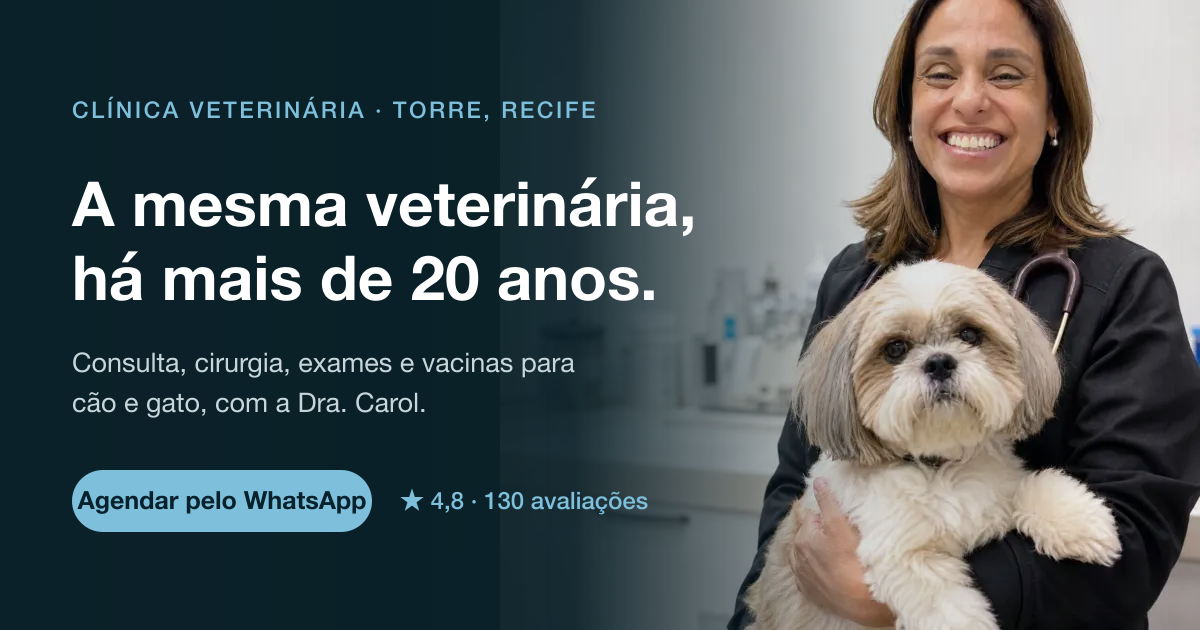
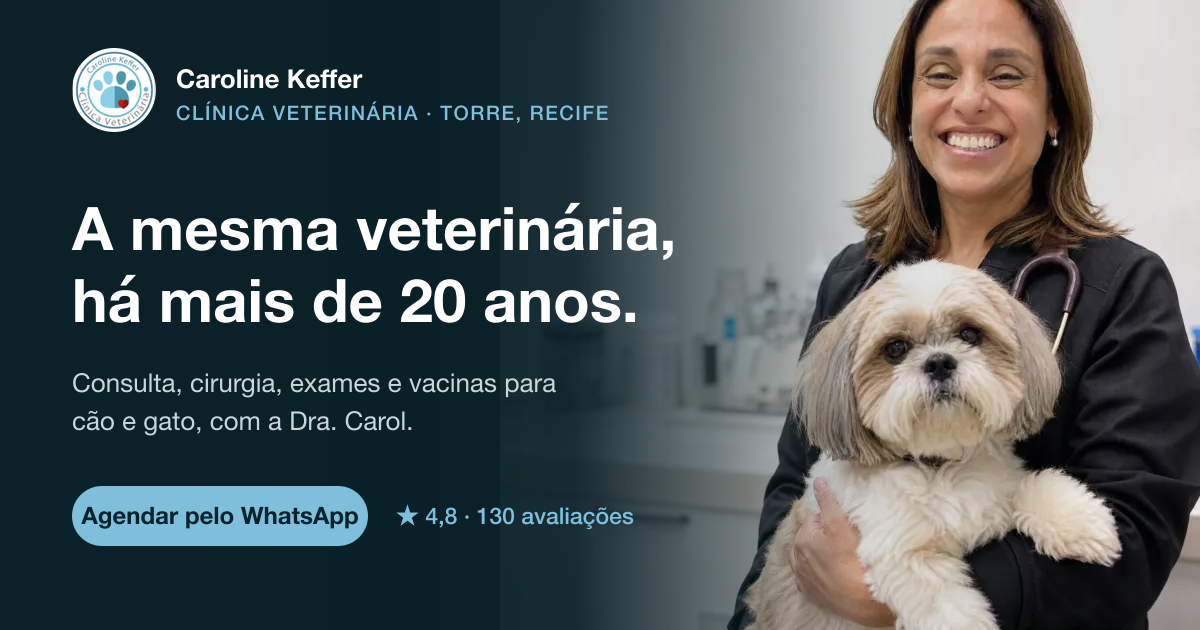
Menu mobile em folha inferior, header com horario e selo na OG
Menu
- Virou folha inferior, nao dropdown: no celular o polegar alcanca a base da
  tela, nao o canto superior direito. O painel antigo mandava a mao para a
  area mais dificil de alcancar.
- Traz as secoes, o CTA e tres acoes rapidas (ligar, chegar, Instagram). O CTA
  vive DENTRO da folha: na tela inicial ele seria o terceiro pedido de clique,
  aqui e o passo natural depois de olhar as secoes.
- Trava a rolagem do fundo e esconde a barra fixa enquanto aberta. Sem isso a
  tela ficava com dois CTAs empilhados e o horario repetido.
- Fecha no Esc, no X e tocando fora. Painel quase opaco: em superficie que
  cobre conteudo, legibilidade vence transparencia.

Header
- O centro no mobile ficou vazio quando o CTA saiu de la. Em vez de devolver
  outro botao, entra INFORMACAO: se a clinica esta aberta agora, que e a
  primeira duvida de quem chega com o animal no colo.

Card de compartilhamento
- Selo da clinica e nome da marca no topo do og.png.

diff --git a/site/components/ui/MenuMobile.tsx b/site/components/ui/MenuMobile.tsx
@@ -1,22 +1,35 @@
 "use client";
 
 import { useEffect, useRef, useState } from "react";
-import { ListIcon, XIcon } from "@phosphor-icons/react/dist/ssr";
-import { navegacao } from "@/content/site";
+import {
+  ListIcon,
+  XIcon,
+  CaretRightIcon,
+  PhoneIcon,
+  MapPinIcon,
+  InstagramLogoIcon,
+} from "@phosphor-icons/react/dist/ssr";
+import { BotaoWhatsapp } from "@/components/ui/BotaoWhatsapp";
+import { StatusHorario } from "@/components/ui/StatusHorario";
+import { navegacao, contato, CTA_PRIMARIO } from "@/content/site";
 
 /**
- * Menu de seções no mobile.
+ * Menu de seções no mobile, em folha inferior.
  *
- * Substitui o botão de WhatsApp que ficava aqui: com a barra fixa embaixo e o
- * CTA do hero, o header era o terceiro pedido de clique na primeira tela. Três
- * CTAs competindo entre si diluem todos. Agendar continua a um toque, na barra.
+ * Folha inferior e não dropdown: no celular o polegar alcança a base da tela,
+ * não o canto superior direito. O painel que abria embaixo do botão obrigava a
+ * esticar a mão justamente para a área mais difícil.
  *
- * Fecha ao escolher uma seção, ao tocar fora e no Esc — as três saídas que o
- * usuário tenta por instinto.
+ * O CTA vive DENTRO da folha, não no header. Na tela inicial ele seria o
+ * terceiro pedido de clique; aqui, com o menu já aberto, é o passo natural
+ * depois de olhar as seções — e não disputa atenção com nada.
+ *
+ * Enquanto aberta, a rolagem da página fica travada: sem isso o fundo desliza
+ * atrás da folha e a leitura se perde.
  */
 export function MenuMobile() {
   const [aberto, setAberto] = useState(false);
-  const caixa = useRef<HTMLDivElement>(null);
+  const folha = useRef<HTMLDivElement>(null);
 
   useEffect(() => {
     if (!aberto) return;
@@ -24,52 +37,128 @@ export function MenuMobile() {
     const aoTeclar = (e: KeyboardEvent) => {
       if (e.key === "Escape") setAberto(false);
     };
-    const aoTocarFora = (e: PointerEvent) => {
-      if (!caixa.current?.contains(e.target as Node)) setAberto(false);
-    };
-
     document.addEventListener("keydown", aoTeclar);
-    document.addEventListener("pointerdown", aoTocarFora);
+
+    const rolagemAntes = document.body.style.overflow;
+    document.body.style.overflow = "hidden";
+    /*
+      Marca o body para o CSS esconder a barra fixa de agendamento: sem isso
+      ela continua sobre a folha e a tela fica com DOIS CTAs empilhados, além
+      do horário repetido.
+    */
+    document.body.dataset.menuAberto = "sim";
+
+    // O foco entra na folha para quem navega por teclado ou leitor de tela.
+    folha.current?.focus();
+
     return () => {
       document.removeEventListener("keydown", aoTeclar);
-      document.removeEventListener("pointerdown", aoTocarFora);
+      document.body.style.overflow = rolagemAntes;
+      delete document.body.dataset.menuAberto;
     };
   }, [aberto]);
 
+  const linhaContato =
+    "flex items-center gap-3 rounded-[var(--radius-field)] px-3 py-3 text-sm text-text-2 transition-colors hover:bg-brand/10 hover:text-brand";
+
   return (
-    <div ref={caixa} className="relative lg:hidden">
+    <>
       <button
         type="button"
-        onClick={() => setAberto((v) => !v)}
+        onClick={() => setAberto(true)}
         aria-expanded={aberto}
-        aria-controls="menu-secoes"
-        aria-label={aberto ? "Fechar menu" : "Abrir menu de seções"}
-        className="flex h-11 w-11 items-center justify-center rounded-full border border-hairline text-text transition-[border-color,color] duration-200 hover:border-brand hover:text-brand"
+        aria-haspopup="dialog"
+        aria-label="Abrir menu"
+        className="flex h-11 w-11 shrink-0 items-center justify-center rounded-full border border-hairline text-text transition-[border-color,color] duration-200 hover:border-brand hover:text-brand lg:hidden"
       >
-        {aberto ? (
-          <XIcon size={20} weight="bold" aria-hidden />
-        ) : (
-          <ListIcon size={20} weight="bold" aria-hidden />
-        )}
+        <ListIcon size={20} weight="bold" aria-hidden />
       </button>
 
       {aberto ? (
-        <nav
-          id="menu-secoes"
-          className="vidro menu-secoes absolute top-[calc(100%+0.75rem)] right-0 w-56 rounded-[var(--radius-card)] p-2"
-        >
-          {navegacao.map((item) => (
-            <a
-              key={item.href}
-              href={item.href}
-              onClick={() => setAberto(false)}
-              className="block rounded-[var(--radius-field)] px-4 py-3 text-[15px] text-text-2 transition-colors hover:bg-brand/10 hover:text-brand"
-            >
-              {item.rotulo}
-            </a>
-          ))}
-        </nav>
+        <div className="fixed inset-0 z-50 lg:hidden">
+          <button
+            type="button"
+            aria-label="Fechar menu"
+            onClick={() => setAberto(false)}
+            className="menu-fundo absolute inset-0 h-full w-full cursor-default"
+          />
+
+          <div
+            ref={folha}
+            role="dialog"
+            aria-modal="true"
+            aria-label="Menu de navegação"
+            tabIndex={-1}
+            className="menu-folha vidro absolute inset-x-0 bottom-0 rounded-t-[1.75rem] px-5 pt-3 pb-[calc(1.25rem+env(safe-area-inset-bottom))] outline-none"
+          >
+            {/* Alça: sinaliza folha arrastável e dá um ponto de descanso visual. */}
+            <span
+              aria-hidden
+              className="mx-auto mb-5 block h-1 w-10 rounded-full bg-text-3/40"
+            />
+
+            <div className="mb-4 flex items-center justify-between">
+              <StatusHorario />
+              <button
+                type="button"
+                onClick={() => setAberto(false)}
+                aria-label="Fechar menu"
+                className="flex h-9 w-9 items-center justify-center rounded-full border border-hairline text-text-2 transition-colors hover:border-brand hover:text-brand"
+              >
+                <XIcon size={16} weight="bold" aria-hidden />
+              </button>
+            </div>
+
+            <nav className="border-t border-hairline">
+              {navegacao.map((item) => (
+                <a
+                  key={item.href}
+                  href={item.href}
+                  onClick={() => setAberto(false)}
+                  className="flex items-center justify-between border-b border-hairline py-4 font-display text-lg font-semibold transition-colors hover:text-brand"
+                >
+                  {item.rotulo}
+                  <CaretRightIcon
+                    size={18}
+                    weight="bold"
+                    className="text-text-3"
+                    aria-hidden
+                  />
+                </a>
+              ))}
+            </nav>
+
+            <div className="mt-5">
+              <BotaoWhatsapp rotulo={CTA_PRIMARIO} className="w-full" />
+            </div>
+
+            <div className="mt-3 grid grid-cols-3 gap-1">
+              <a href={contato.telefoneFixoLink} className={linhaContato}>
+                <PhoneIcon size={18} weight="light" aria-hidden />
+                Ligar
+              </a>
+              <a
+                href={contato.mapa}
+                target="_blank"
+                rel="noopener noreferrer"
+                className={linhaContato}
+              >
+                <MapPinIcon size={18} weight="light" aria-hidden />
+                Chegar
+              </a>
+              <a
+                href={contato.instagram}
+                target="_blank"
+                rel="noopener noreferrer"
+                className={linhaContato}
+              >
+                <InstagramLogoIcon size={18} weight="light" aria-hidden />
+                Instagram
+              </a>
+            </div>
+          </div>
+        </div>
       ) : null}
-    </div>
+    </>
   );
 }

diff --git a/site/app/globals.css b/site/app/globals.css
@@ -773,3 +773,54 @@
     ),
     color-mix(in srgb, var(--surface) 97%, transparent);
 }
+
+/*
+  Folha inferior do menu mobile.
+  Fundo escurece e desfoca o conteúdo atrás; a folha sobe do rodapé, que é
+  onde o polegar alcança. Sem `prefers-reduced-motion` as duas entram secas.
+*/
+.menu-fundo {
+  background-color: color-mix(in srgb, #04141a 62%, transparent);
+  backdrop-filter: blur(4px);
+  -webkit-backdrop-filter: blur(4px);
+}
+
+.menu-folha {
+  /* Painel que cobre conteúdo: legibilidade vence transparência. */
+  background:
+    linear-gradient(
+      160deg,
+      color-mix(in srgb, var(--brand) 10%, transparent),
+      transparent 55%
+    ),
+    color-mix(in srgb, var(--surface) 98%, transparent);
+  max-height: 88dvh;
+  overflow-y: auto;
+}
+
+@media (prefers-reduced-motion: no-preference) {
+  .menu-fundo {
+    animation: surge-fundo 0.25s ease-out both;
+  }
+
+  .menu-folha {
+    animation: sobe-folha 0.32s var(--ease-soft) both;
+  }
+}
+
+@keyframes surge-fundo {
+  from {
+    opacity: 0;
+  }
+}
+
+@keyframes sobe-folha {
+  from {
+    transform: translateY(100%);
+  }
+}
+
+/* Com o menu aberto, a barra fixa some: ela duplicaria CTA e horário. */
+body[data-menu-aberto] .barra-agendamento {
+  display: none;
+}

diff --git a/site/components/sections/Cabecalho.tsx b/site/components/sections/Cabecalho.tsx
@@ -2,6 +2,7 @@ import Image from "next/image";
 import { caminhoPublico } from "@/lib/caminho";
 import { BotaoWhatsapp } from "@/components/ui/BotaoWhatsapp";
 import { MenuMobile } from "@/components/ui/MenuMobile";
+import { StatusHorario } from "@/components/ui/StatusHorario";
 import { navegacao, CTA_PRIMARIO } from "@/content/site";
 
 /**
@@ -38,6 +39,14 @@ export function Cabecalho() {
             className="h-12 w-12 rounded-full object-cover ring-1 ring-brand/20"
           />
         </a>
+
+        {/* O centro do header no mobile ficou vazio quando o CTA saiu daqui.
+            Em vez de devolver outro botão, entra INFORMAÇÃO: se a clínica está
+            aberta agora é a primeira dúvida de quem chega com o animal no colo,
+            e ocupa o espaço sem disputar clique com o CTA da barra fixa. */}
+        <span className="min-w-0 flex-1 justify-center lg:hidden">
+          <StatusHorario className="justify-center" />
+        </span>
 
         <nav className="hidden items-center gap-7 lg:flex">
           {navegacao.map((item) => (

diff --git a/site/components/ui/BarraAgendamento.tsx b/site/components/ui/BarraAgendamento.tsx
@@ -21,7 +21,7 @@ import { CTA_PRIMARIO } from "@/content/site";
 export function BarraAgendamento() {
   return (
     <div
-      className="fixed inset-x-0 bottom-0 z-40 px-3 pb-[calc(0.6rem+env(safe-area-inset-bottom))] sm:hidden"
+      className="barra-agendamento fixed inset-x-0 bottom-0 z-40 px-3 pb-[calc(0.6rem+env(safe-area-inset-bottom))] sm:hidden"
       role="complementary"
       aria-label="Agendamento rápido"
     >
